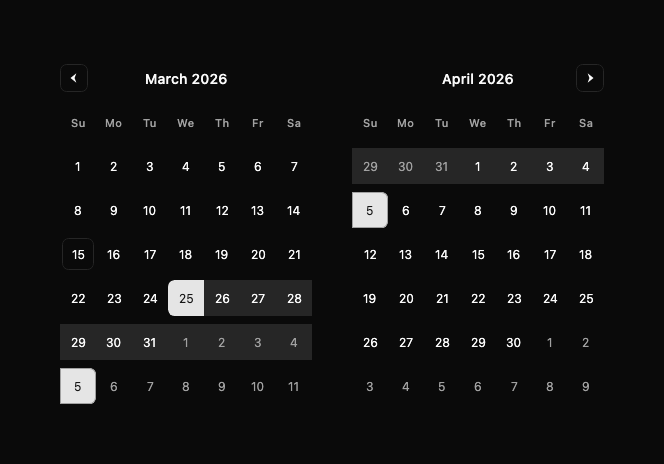
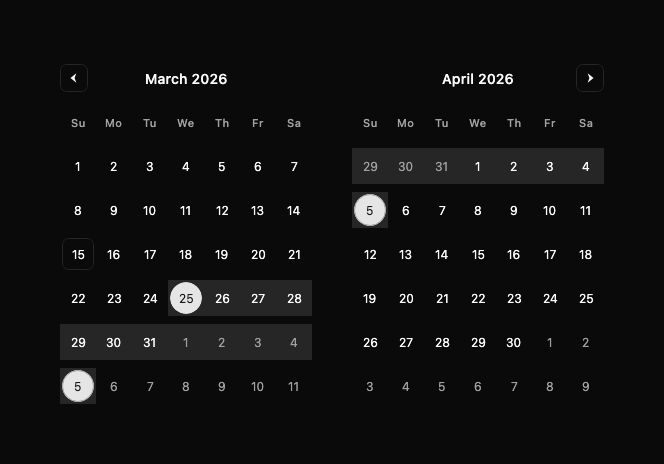
fix(calendar): selected/range-cap days render as a true circle, not a rounded square
CalendarDayCell used theme.shapes.md (a small ~6dp radius) for the
selected/range-start/range-end cap, which read as barely-rounded at
36dp cell size -- real shadcn's selected/range-cap day is a full circle,
confirmed directly against real screenshots.

Also restructures range rendering into two independent layers instead of
a half-rounded-rect shape: a flat, edge-to-edge muted band (no rounding
anywhere, even at the absolute start/end cell) for every day in the
range, with a separate, fully circular primary-filled cap layered on top
of just the start/end day. Matches real shadcn's actual approach --
CircleShape is unioned visually with the flat band underneath it, not a
single shape with two rounded corners and two square ones.

Fixes the same look for plain single-select ShadcnCalendar too, since it
shares this exact cell renderer.

Changed region(s): [[0.512, 0.3922, 0.6024, 0.5129], [0.241, 0.6034, 0.3313, 0.694], [0.0904, 0.7845, 0.1506, 0.875]]

diff --git a/shadcn/core/src/commonMain/kotlin/io/github/ronjunevaldoz/shadcncompose/components/ShadcnCalendar.kt b/shadcn/core/src/commonMain/kotlin/io/github/ronjunevaldoz/shadcncompose/components/ShadcnCalendar.kt
@@ -2,6 +2,7 @@
 
 package io.github.ronjunevaldoz.shadcncompose.components
 
+import androidx.compose.foundation.background
 import androidx.compose.foundation.border
 import androidx.compose.foundation.clickable
 import androidx.compose.foundation.interaction.MutableInteractionSource
@@ -11,6 +12,8 @@ import androidx.compose.foundation.layout.Column
 import androidx.compose.foundation.layout.Row
 import androidx.compose.foundation.layout.padding
 import androidx.compose.foundation.layout.size
+import androidx.compose.foundation.layout.fillMaxSize
+import androidx.compose.foundation.shape.CircleShape
 import androidx.compose.foundation.shape.RoundedCornerShape
 import androidx.compose.foundation.style.ExperimentalFoundationStyleApi
 import androidx.compose.foundation.style.MutableStyleState
@@ -26,7 +29,6 @@ import androidx.compose.ui.Modifier
 import androidx.compose.ui.draw.clip
 import androidx.compose.ui.draw.rotate
 import androidx.compose.ui.graphics.Color
-import androidx.compose.ui.unit.Dp
 import androidx.compose.ui.unit.dp
 import io.github.ronjunevaldoz.shadcncompose.icons.ChevronRight
 import io.github.ronjunevaldoz.shadcncompose.icons.ShadcnGlyphIcon
@@ -425,16 +427,19 @@ private fun CalendarDayCell(
     val theme = shadcnTheme
     val interactionSource = remember { MutableInteractionSource() }
     val styleState = remember { MutableStyleState(interactionSource) }
-    // Range cells touch edge-to-edge (no gap) so the fill reads as one connected band with
-    // rounded caps only at the start/end -- single-mode/non-range cells keep their gap.
-    val cellShape = rangeAwareCellShape(theme.shapes.md, isRangeStart, isRangeEnd, isInRange)
-    val cellStyle =
+    val isRangeCap = isRangeStart || isRangeEnd
+    val isFilled = isSelected || isRangeCap
+    // Real shadcn draws the continuous range fill as a flat, edge-to-edge band -- no rounding
+    // anywhere on it, even at the cell holding the absolute start/end day -- with a separate,
+    // fully circular "cap" layered on top of just the start/end day. Not a half-rounded-rect
+    // shape: the band and the circle are two independent layers. Single-day selection (no
+    // range in progress) reuses the same circular cap, just with no band underneath it.
+    val capShape = if (isFilled) CircleShape else RoundedCornerShape(theme.shapes.md)
+    val capStyle =
         Style {
-            shape(cellShape)
-            if (isSelected) {
+            shape(capShape)
+            if (isFilled) {
                 background(theme.colors.primary)
-            } else if (isInRange) {
-                background(theme.colors.muted)
             } else if (isToday) {
                 borderWidth(1.dp)
                 borderColor(theme.colors.border)
@@ -445,35 +450,26 @@ private fun CalendarDayCell(
                 dropShadow(theme.focusRingShadow())
             }
         }
-    Box(
-        modifier =
-            Modifier
-                .size(CELL_SIZE)
-                .padding(if (isRangeStart || isRangeEnd || isInRange) 0.dp else 2.dp)
-                .clip(cellShape)
-                .styleable(styleState, cellStyle)
-                .clickable(interactionSource = interactionSource, indication = null, onClick = onClick),
-        contentAlignment = Alignment.Center,
-    ) {
-        ShadcnText(
-            cell.date.day.toString(),
-            style = ShadcnTextStyle.BodySmall,
-            muted = !cell.inCurrentMonth,
-            color = if (isSelected) shadcnTheme.colors.onPrimary else Color.Unspecified,
-        )
+    Box(modifier = Modifier.size(CELL_SIZE), contentAlignment = Alignment.Center) {
+        if (isInRange || isRangeCap) {
+            Box(modifier = Modifier.fillMaxSize().background(theme.colors.muted))
+        }
+        Box(
+            modifier =
+                Modifier
+                    .size(CELL_SIZE)
+                    .padding(2.dp)
+                    .clip(capShape)
+                    .styleable(styleState, capStyle)
+                    .clickable(interactionSource = interactionSource, indication = null, onClick = onClick),
+            contentAlignment = Alignment.Center,
+        ) {
+            ShadcnText(
+                cell.date.day.toString(),
+                style = ShadcnTextStyle.BodySmall,
+                muted = !cell.inCurrentMonth,
+                color = if (isFilled) shadcnTheme.colors.onPrimary else Color.Unspecified,
+            )
+        }
     }
 }
-
-private fun rangeAwareCellShape(
-    radius: Dp,
-    isRangeStart: Boolean,
-    isRangeEnd: Boolean,
-    isInRange: Boolean,
-): RoundedCornerShape =
-    when {
-        isRangeStart && isRangeEnd -> RoundedCornerShape(radius) // single-day range
-        isRangeStart -> RoundedCornerShape(topStart = radius, bottomStart = radius, topEnd = 0.dp, bottomEnd = 0.dp)
-        isRangeEnd -> RoundedCornerShape(topStart = 0.dp, bottomStart = 0.dp, topEnd = radius, bottomEnd = radius)
-        isInRange -> RoundedCornerShape(0.dp)
-        else -> RoundedCornerShape(radius)
-    }
